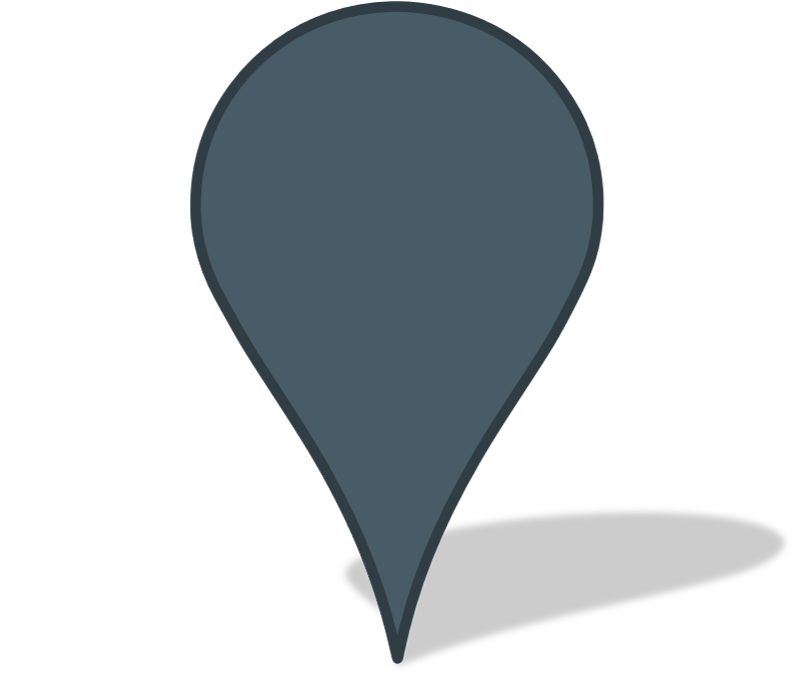
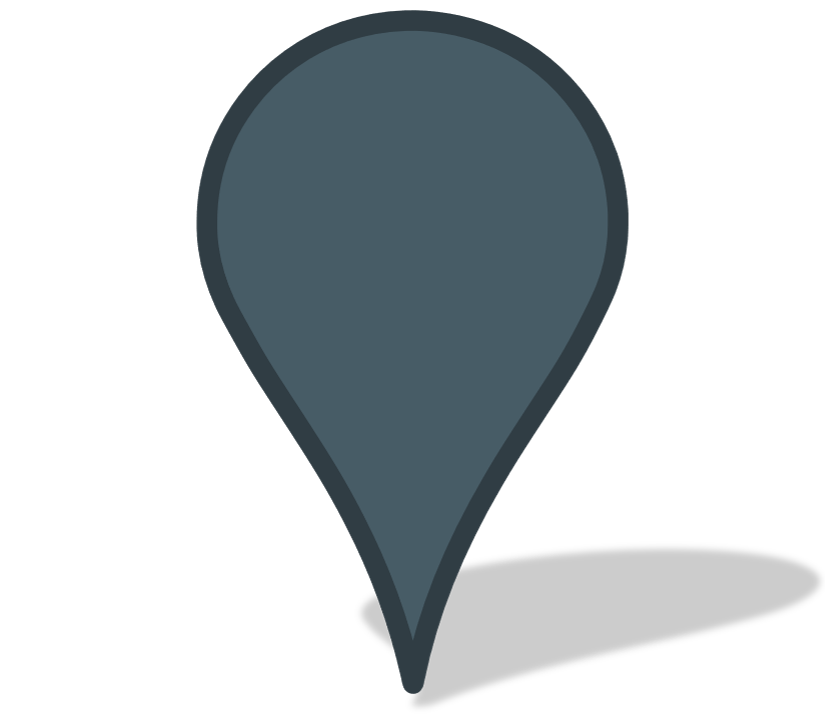
custom Markers implemented

Changed region(s): [[0.2116, 0.0, 0.7859, 0.5929], [0.3325, 0.5305, 0.6348, 0.9985]]

diff --git a/src/Components/Map/MapSummary.tsx b/src/Components/Map/MapSummary.tsx
@@ -10,7 +10,7 @@ import {
   SatelliteExtansions,
 } from "./Tiles/TileProviders";
 import Layers from "./Tiles/Layers";
-import CustomMarker from "./Tiles/CustomMarker";
+import CustomMarker from "./Tiles/Markers/CustomMarker";
 import { Map } from "leaflet";
 import { useAppSelector } from "../../app/hooks";
 import { selectPlanningArtifacts } from "../../features/Redux/planningSlice";
@@ -55,7 +55,9 @@ export default function MapSummary() {
     TTimeLineArtifact[]
   >([]);
   const [markers, setMarkers] = useState<TMarker[]>([]);
-  const [selectedArtifact, setSelectedArtifact] = useState<number | null>(null);
+  const [selectedArtifactId, setSelectedArtifactId] = useState<number | null>(
+    null
+  );
   const [hoveredArtifact, setHoveredArtifact] = useState<number | null>(null);
 
   const sortedPlanningArtifacts = useMemo(() => {
@@ -68,14 +70,14 @@ export default function MapSummary() {
       } else if (dateA > dateB) {
         return 1;
       } else {
-        // If the dates are equal, compare the timeIndex
-        if (a.timeIndex < b.timeIndex && a.timeIndex !== -1) {
+        if (b.timeIndex === -1) {
           return -1;
-        } else if (a.timeIndex > b.timeIndex && b.timeIndex !== -1) {
-          return 1;
-        } else {
-          return 0;
         }
+        if (a.timeIndex === -1) {
+          return 1;
+        }
+        // If the dates are equal, compare the timeIndex
+        return a.timeIndex - b.timeIndex;
       }
     });
   }, [planningArtifacts]);
@@ -164,16 +166,11 @@ export default function MapSummary() {
   }, [mapWidth, mapHeight]);
 
   useEffect(() => {
-    console.log(
-      "selected artigfact",
-      markers.find((marker) => marker.id === selectedArtifact)?.position
-    );
-
-    selectedArtifact &&
+    selectedArtifactId &&
       map?.setView(
-        markers.find((marker) => marker.id === selectedArtifact)!.position
+        markers.find((marker) => marker.id === selectedArtifactId)!.position
       );
-  }, [map, markers, selectedArtifact]);
+  }, [map, markers, selectedArtifactId]);
 
   useEffect(() => {
     markers.length && map?.setView(markers[0].position);
@@ -183,10 +180,10 @@ export default function MapSummary() {
     <div className={styles.container}>
       <TimeLineSummary
         sortedPlanningArtifacts={timeLineArtifacts}
-        onSelectArtifact={setSelectedArtifact}
+        onSelectArtifact={setSelectedArtifactId}
         onHoverArtifact={setHoveredArtifact}
         hoveredArtifact={hoveredArtifact}
-        selectedArtifact={selectedArtifact}
+        selectedArtifactId={selectedArtifactId}
       />
       <div className={styles.rightPart}>
         <PlanningSheets />
@@ -230,10 +227,10 @@ export default function MapSummary() {
                   value={marker.id}
                   description={marker.description}
                   selected={
-                    selectedArtifact === marker.id ||
+                    selectedArtifactId === marker.id ||
                     hoveredArtifact === marker.id
                   }
-                  onClick={() => setSelectedArtifact(marker.id)}
+                  onClick={() => setSelectedArtifactId(marker.id)}
                   onHover={(isHovered) =>
                     setHoveredArtifact(isHovered ? marker.id : null)
                   }

diff --git a/src/Components/Map/Tiles/Markers/CustomMarker.tsx b/src/Components/Map/Tiles/Markers/CustomMarker.tsx
@@ -1,0 +1,82 @@
+import { Marker, Popup } from "react-leaflet";
+import { EArtifact } from "../../../../Models/EArtifacts";
+import { useMemo } from "react";
+import { DivIcon } from "leaflet";
+import ReactDOMServer from "react-dom/server";
+import accomodationMark from "../../../../assets/AccomodationMarkNoIcon.png";
+import activityMark from "../../../../assets/ActivityMarkNoIcon.png";
+import transportMark from "../../../../assets/TransportMarkNoIcon.png";
+
+import styles from "./Marker.module.css";
+import "./LeafletOverideStyle.css";
+
+const w = 60;
+const h = 51;
+export default function CustomMarker({
+  position,
+  artifactType,
+  value,
+  onClick,
+  onHover,
+  description,
+  selected,
+}: {
+  position: [number, number];
+  value: number;
+  artifactType: EArtifact;
+  onClick: () => void;
+  onHover: (isHovered: boolean) => void;
+  description?: string;
+  selected?: boolean;
+}) {
+  const icon = useMemo(() => {
+    let mark;
+    switch (artifactType) {
+      case EArtifact.Activity:
+        mark = activityMark;
+        break;
+      case EArtifact.Transport:
+        mark = transportMark;
+
+        break;
+      default:
+        mark = accomodationMark;
+        break;
+    }
+    return new DivIcon({
+      html: ReactDOMServer.renderToString(
+        <div
+          className={`${styles.markerContainer} ${
+            selected ? styles.growAnimation : styles.reduceAnimation
+          }`}
+          style={{
+            width: w + "px",
+          }}
+        >
+          <img src={mark} alt="marker" style={{ width: "100%" }} />
+          <span>{value}</span>
+        </div>
+      ),
+      iconSize: [0, 0],
+      popupAnchor: [0, -h],
+      iconAnchor: [w / 2, h],
+    });
+  }, [value, selected, artifactType]);
+
+  return (
+    <Marker
+      riseOnHover
+      riseOffset={10}
+      position={position}
+      icon={icon}
+      eventHandlers={{
+        click: onClick,
+        mouseover: () => onHover(true),
+        mouseout: () => onHover(false),
+      }}
+      zIndexOffset={selected ? 10000 : 0}
+    >
+      {description && <Popup>{description}</Popup>}
+    </Marker>
+  );
+}

diff --git a/src/Components/Map/Timeline/TimeLineSummary.tsx b/src/Components/Map/Timeline/TimeLineSummary.tsx
@@ -1,5 +1,5 @@
 import { Button, Pagination, ThemeProvider, createTheme } from "@mui/material";
-import { useMemo, useState } from "react";
+import { useEffect, useMemo, useState } from "react";
 import { ERouterPathes } from "../../../Helper/ERouterPathes";
 import styles from "./TimeLineSummary.module.css";
 import { useNavigate } from "react-router-dom";
@@ -21,11 +21,11 @@ export default function TimeLineSummary({
   sortedPlanningArtifacts,
   onSelectArtifact,
   onHoverArtifact,
-  selectedArtifact,
+  selectedArtifactId,
   hoveredArtifact,
 }: {
   sortedPlanningArtifacts: TTimeLineArtifact[];
-  selectedArtifact: number | null;
+  selectedArtifactId: number | null;
   hoveredArtifact: number | null;
   onSelectArtifact: (id: number) => void;
   onHoverArtifact: (id: number | null) => void;
@@ -57,6 +57,18 @@ export default function TimeLineSummary({
       ),
     [trip?.start_date, sortedPlanningArtifacts, dayIndex]
   );
+
+  useEffect(() => {
+    if (selectedArtifactId) {
+      const selectedArtifactDate = dayjs(
+        sortedPlanningArtifacts.find((pa) => pa.id === selectedArtifactId)!.date
+      );
+      const newDayIndex = Math.abs(
+        dayjs(trip?.start_date).diff(selectedArtifactDate, "day")
+      );
+      setDayIndex(newDayIndex);
+    }
+  }, [selectedArtifactId, sortedPlanningArtifacts, trip?.start_date]);
 
   return (
     <div className={styles.timeLineContainer}>
@@ -113,7 +125,7 @@ export default function TimeLineSummary({
                 text={item.artifact.name}
                 id={item.id}
                 hovered={hoveredArtifact === item.id}
-                selecetd={selectedArtifact === item.id}
+                selecetd={selectedArtifactId === item.id}
               />
             </div>
           ))}
@@ -129,6 +141,7 @@ export default function TimeLineSummary({
             display: "flex",
             justifyContent: "center",
           }}
+          page={dayIndex + 1}
         />
       </ThemeProvider>
     </div>

diff --git a/electron/preload.ts b/electron/preload.ts
@@ -2,7 +2,7 @@ import { contextBridge, ipcRenderer } from "electron";
 import { IElectronAPI } from "../src/features/ipc/IElectronAPI";
 import ITrip from "../src/Models/ITrip";
 import { EIpcChanels } from "./IPC_API/EIpcChannels";
-import { IItem } from "../src/Models/IItem";
+import { IArtifact } from "../src/Models/IArtifact";
 import { EArtifactTableName } from "../src/Models/EArtifacts";
 import IPlanningArtifact, { IPlanning } from "../src/Models/IPlanningArtifact";
 
@@ -18,9 +18,9 @@ contextBridge.exposeInMainWorld("electronAPI", {
   //GENERIC
   getAllItems: (tableName: EArtifactTableName, tripId: number) =>
     ipcRenderer.invoke(EIpcChanels.getAllItems, tableName, tripId),
-  insertItem: (tableName: EArtifactTableName, item: IItem) =>
+  insertItem: (tableName: EArtifactTableName, item: IArtifact) =>
     ipcRenderer.invoke(EIpcChanels.insertItem, tableName, item),
-  updateItem: (tableName: EArtifactTableName, item: IItem) =>
+  updateItem: (tableName: EArtifactTableName, item: IArtifact) =>
     ipcRenderer.invoke(EIpcChanels.updateItem, tableName, item),
   deleteItem: (tableName: EArtifactTableName, itemId: number) =>
     ipcRenderer.invoke(EIpcChanels.deleteItem, tableName, itemId),

diff --git a/src/Components/Map/Tiles/Markers/Marker.module.css b/src/Components/Map/Tiles/Markers/Marker.module.css
@@ -17,6 +17,7 @@
 }
 
 .growAnimation {
+    z-index: 1;
     animation: grow 200ms ease-in-out forwards;
 }
 

diff --git a/src/Components/Map/Tiles/Markers/LeafletOverideStyle.css b/src/Components/Map/Tiles/Markers/LeafletOverideStyle.css
@@ -1,0 +1,3 @@
+.leaflet-marker-icon {
+    border: 0px !important;
+}
